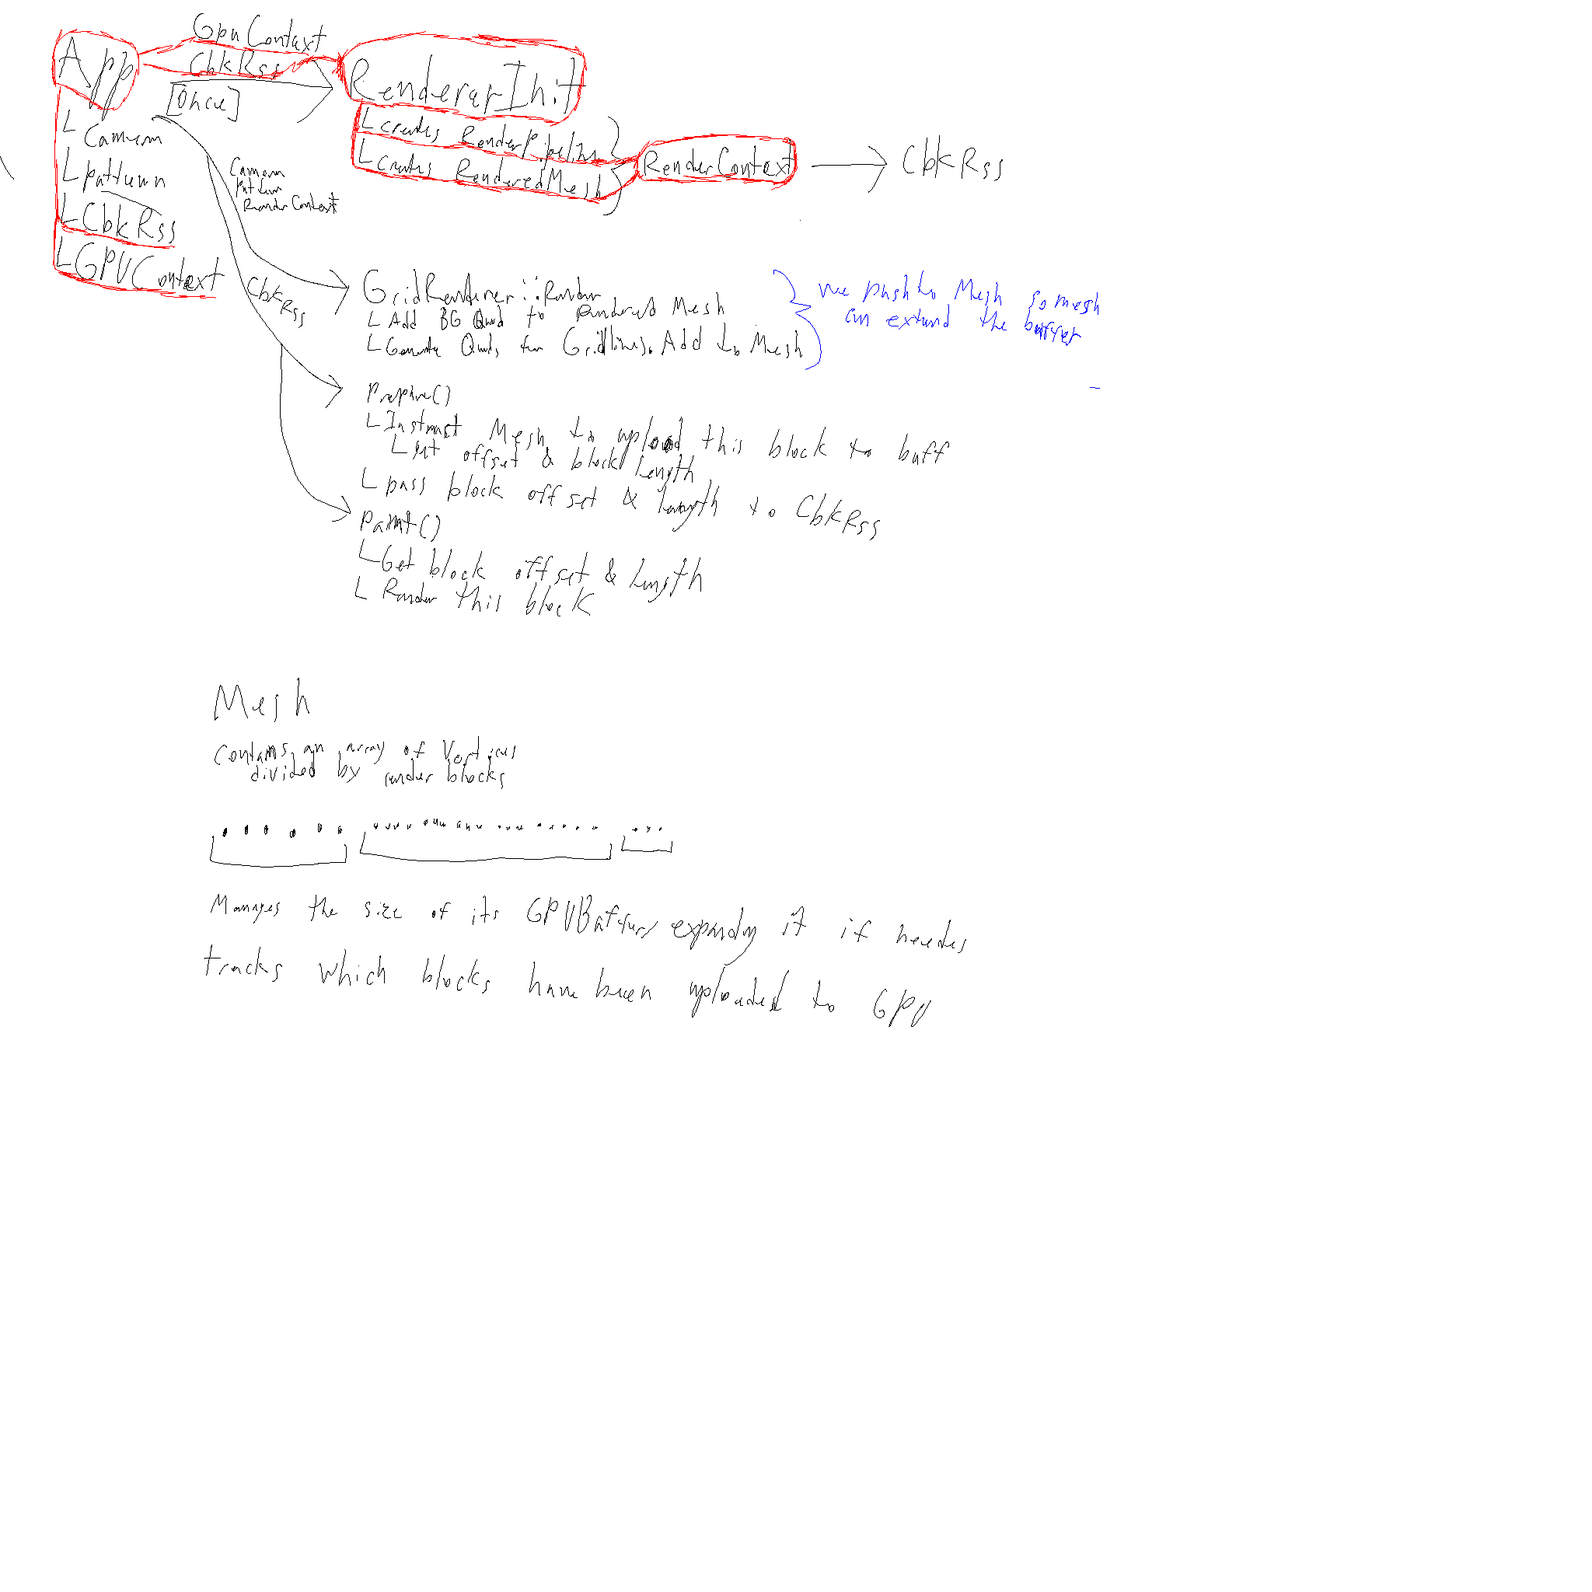
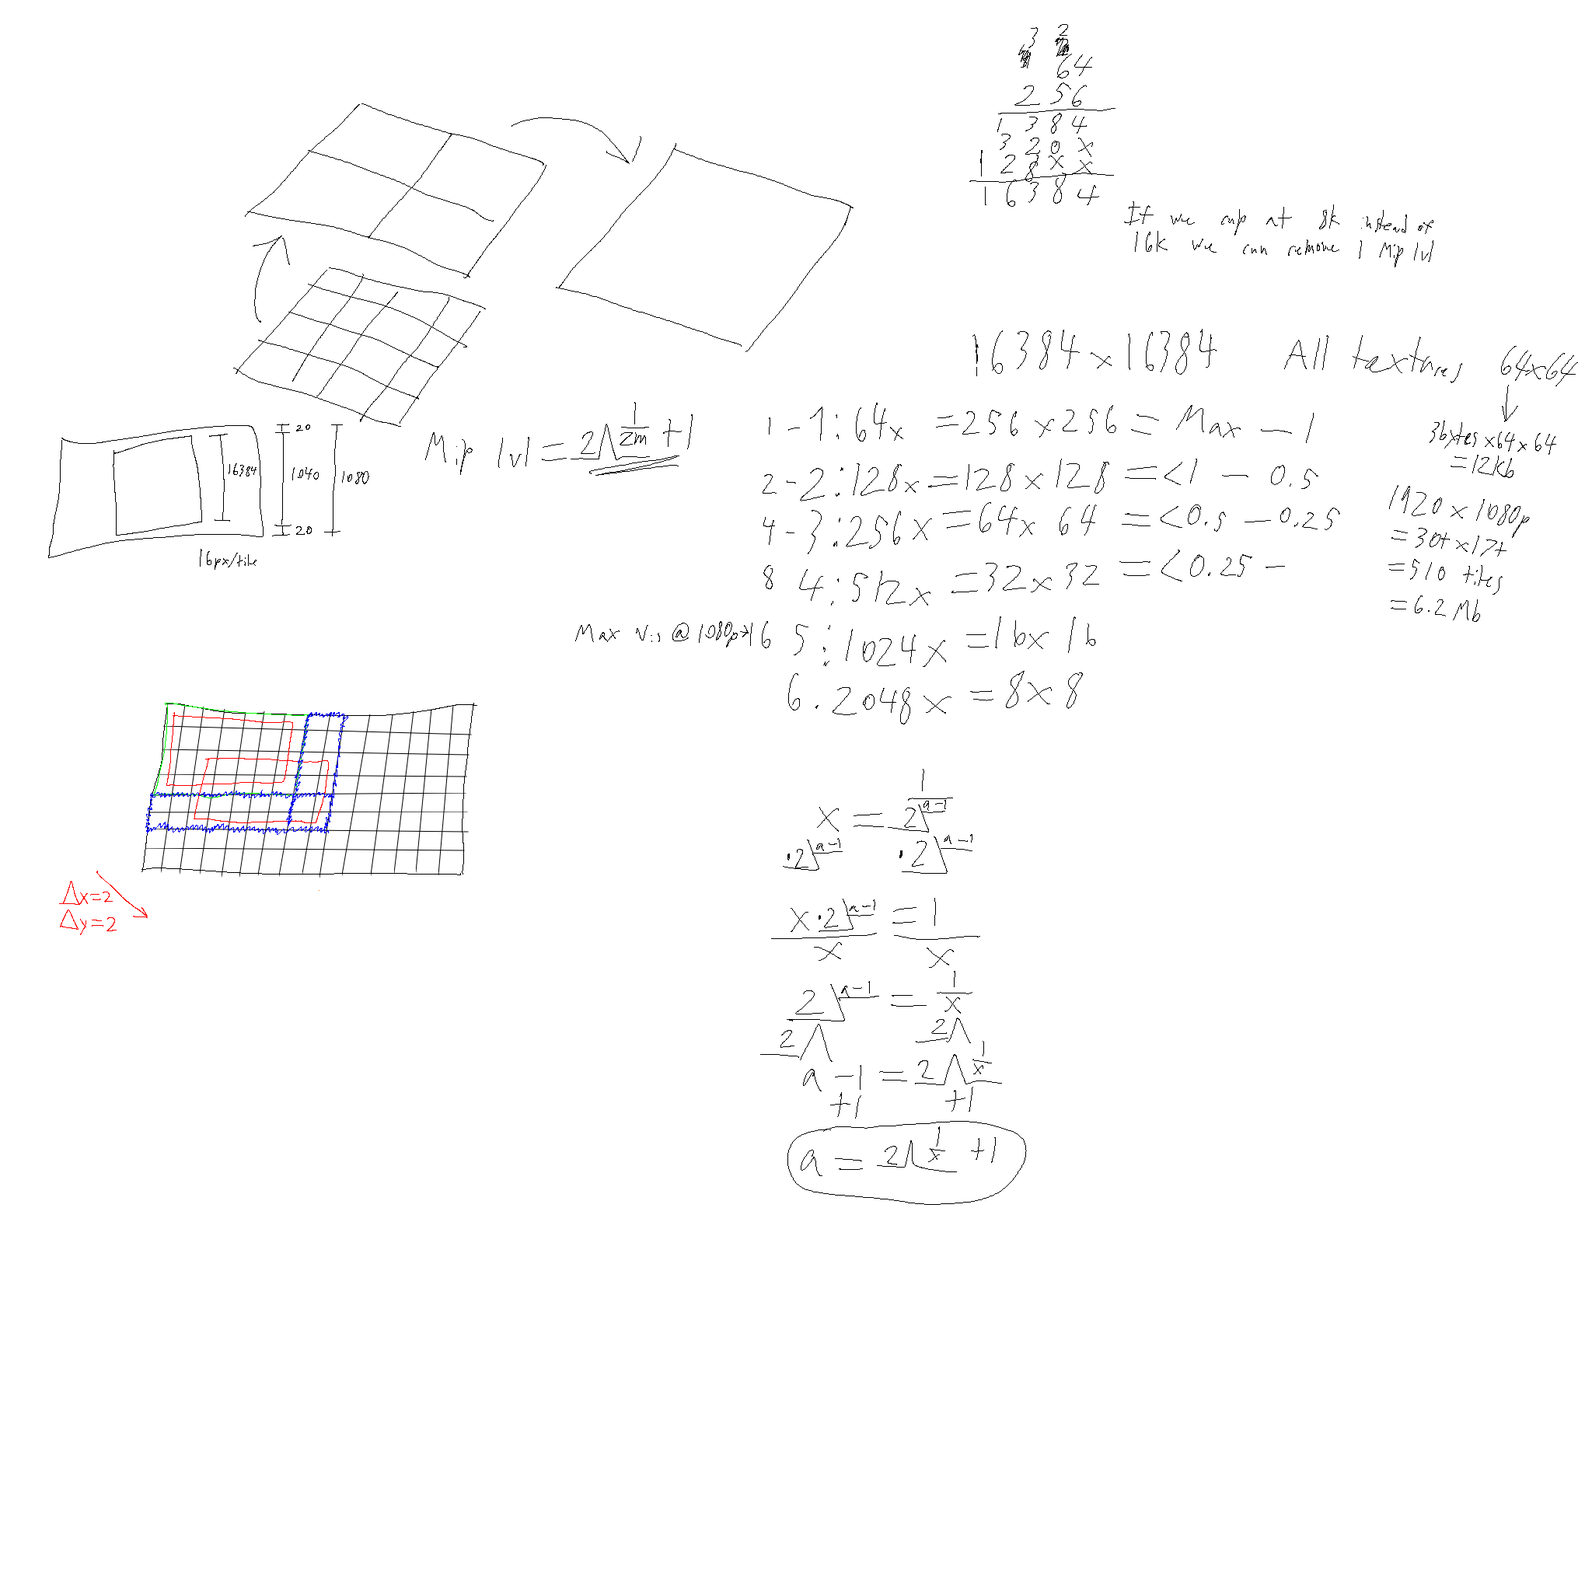
Add a Bounds struct

diff --git a/src/renderer/grid_renderer.rs b/src/renderer/grid_renderer.rs
@@ -6,26 +6,22 @@ use crate::{
     renderer::{
         RenderContext,
         geometry::{
-            Vertex,
-            Color,
-            Axis,
+            Axis, Color, Vertex
         },
     },
-    utils
+    utils,
 };
 use std::any::TypeId;
 
 /// A quad representing a line in a grid.
 struct Gridline {
-    /// This `Gridline`'s position along its `Axis`.
+    /// This gridline's world space position along its axis.
     position: f32,
-    /// Minimum world space position of the pattern's edge, so the `Gridline` doesn't overflow the pattern.
-    draw_min: f32,
-    /// Maximum world space position of the pattern's edge, so the `Gridline` doesn't overflow the pattern.
-    draw_max: f32,
-    /// Thickness of this `Gridline`.
+    /// Minimum and maximum world space positions of the gridline's endpoints to prevent overrunning the pattern.
+    endpoints: utils::Bounds<f32>,
+    /// Thickness of this gridline.
     weight: f32,
-    /// `Axis` long which this `Gridline` is placed, perpendicular to that which it points.
+    /// Axis long which this gridline is placed, perpendicular to that which it points.
     axis: Axis,
 }
 impl Gridline {
@@ -42,8 +38,10 @@ impl Gridline {
         match self.axis {
             Axis::X => {
                 let x_clip = ((self.position - camera.position.x) * camera.zoom) / (camera.viewport.x / 2.0);
-                let draw_min_clip = ((self.draw_min - camera.position.y) * camera.zoom) / (camera.viewport.y / 2.0);
-                let draw_max_clip = ((self.draw_max - camera.position.y) * camera.zoom) / (camera.viewport.y / 2.0);
+                let endpoints_clip = utils::Bounds {
+                    min: ((self.endpoints.min - camera.position.y) * camera.zoom) / (camera.viewport.y / 2.0),
+                    max: ((self.endpoints.max - camera.position.y) * camera.zoom) / (camera.viewport.y / 2.0),
+                };
                 let weight = self.weight / (camera.viewport.x / 2.0);
                 let corner_fix = (self.weight / 4.0) / (camera.viewport.x / 2.0);
                 let draw_color = Color::BLACK;
@@ -51,65 +49,67 @@ impl Gridline {
                 [
                     // Top right
                     Vertex {
-                        position: Vec2::new(x_clip - weight / 2.0, draw_max_clip + corner_fix),
+                        position: Vec2::new(x_clip - weight / 2.0, endpoints_clip.max + corner_fix),
                         color: draw_color,
                     },
                     Vertex {
-                        position: Vec2::new(x_clip + weight / 2.0, draw_max_clip + corner_fix),
+                        position: Vec2::new(x_clip + weight / 2.0, endpoints_clip.max + corner_fix),
                         color: draw_color,
                     },
                     Vertex {
-                        position: Vec2::new(x_clip + weight / 2.0, draw_min_clip - corner_fix),
+                        position: Vec2::new(x_clip + weight / 2.0, endpoints_clip.min - corner_fix),
                         color: draw_color,
                     },
                     //Bottom left
                     Vertex {
-                        position: Vec2::new(x_clip - weight / 2.0, draw_max_clip + corner_fix),
+                        position: Vec2::new(x_clip - weight / 2.0, endpoints_clip.max + corner_fix),
                         color: draw_color,
                     },
                     Vertex {
-                        position: Vec2::new(x_clip + weight / 2.0, draw_min_clip - corner_fix),
+                        position: Vec2::new(x_clip + weight / 2.0, endpoints_clip.min - corner_fix),
                         color: draw_color,
                     },
                     Vertex {
-                        position: Vec2::new(x_clip - weight / 2.0, draw_min_clip - corner_fix),
+                        position: Vec2::new(x_clip - weight / 2.0, endpoints_clip.min - corner_fix),
                         color: draw_color,
                     },
                 ]
             },
             Axis::Y => {
-                let y_clip = ((self.position - camera.position[1]) * camera.zoom) / (camera.viewport[1] / 2.0);
-                let draw_min_clip = ((self.draw_min - camera.position[0]) * camera.zoom) / (camera.viewport[0] / 2.0);
-                let draw_max_clip = ((self.draw_max - camera.position[0]) * camera.zoom) / (camera.viewport[0] / 2.0);
-                let weight = self.weight / (camera.viewport[1] / 2.0);
+                let y_clip = ((self.position - camera.position.y) * camera.zoom) / (camera.viewport.y / 2.0);
+                let endpoints_clip = utils::Bounds {
+                    min: ((self.endpoints.min - camera.position.x) * camera.zoom) / (camera.viewport.x / 2.0),
+                    max: ((self.endpoints.max - camera.position.x) * camera.zoom) / (camera.viewport.x / 2.0),
+                };
+                let weight = self.weight / (camera.viewport.y / 2.0);
                 let corner_fix = (self.weight / 4.0) / (camera.viewport.y / 2.0);
                 let draw_color = Color::BLACK;
 
                 [
                     // Top right
                     Vertex{
-                        position: Vec2::new(draw_min_clip - corner_fix, y_clip + weight / 2.0),
+                        position: Vec2::new(endpoints_clip.min - corner_fix, y_clip + weight / 2.0),
                         color: draw_color,
                     },
                     Vertex{
-                        position: Vec2::new(draw_max_clip + corner_fix, y_clip + weight / 2.0),
+                        position: Vec2::new(endpoints_clip.max + corner_fix, y_clip + weight / 2.0),
                         color: draw_color,
                     },
                     Vertex{
-                        position: Vec2::new(draw_max_clip + corner_fix, y_clip - weight / 2.0),
+                        position: Vec2::new(endpoints_clip.max + corner_fix, y_clip - weight / 2.0),
                         color: draw_color,
                     },
                     //Bottom left
                     Vertex{
-                        position: Vec2::new(draw_min_clip - corner_fix, y_clip + weight / 2.0),
+                        position: Vec2::new(endpoints_clip.min - corner_fix, y_clip + weight / 2.0),
                         color: draw_color,
                     },
                     Vertex{
-                        position: Vec2::new(draw_max_clip + corner_fix, y_clip - weight / 2.0),
+                        position: Vec2::new(endpoints_clip.max + corner_fix, y_clip - weight / 2.0),
                         color: draw_color,
                     },
                     Vertex{
-                        position: Vec2::new(draw_min_clip - corner_fix, y_clip - weight / 2.0),
+                        position: Vec2::new(endpoints_clip.min - corner_fix, y_clip - weight / 2.0),
                         color: draw_color,
                     },
                 ]
@@ -120,18 +120,12 @@ impl Gridline {
 
 /// An iterator which generates all `Gridline`s along an axis between two world space positions.
 struct GridlineIter {
-    /// Minimum gridline this iterator will draw.
-    working_min: f32,
-    /// Maximum gridline this iterator will draw.
-    working_max: f32,
-    /// `pll_pattern_min`: Min world space position of pattern's edge parallel to axis.
-    pll_pattern_min: f32,
-    /// `pll_pattern_max`: Max world space position of pattern's edge parallel to axis.
-    pll_pattern_max: f32,
-    /// `prp_pattern_min`: Min world space position of pattern's edge perpendicular to axis.
-    prp_pattern_min: f32,
-    /// `prp_pattern_max`: Max world space position of pattern's edge perpendicular to axis.
-    prp_pattern_max: f32,
+    /// Minimum gridline in world space to draw along axis.
+    min: f32,
+    /// Maximum gridline in world space to draw along axis.
+    max: f32,
+    /// 2D bounding box of pattern in world space. `x` is parallel to `axis`, `y` is perpendicular.
+    pattern_bb: utils::Bounds2d<f32>,
     /// How many world position units between each gridline.
     step: f32,
     /// World position of the next `Gridline` to generate.
@@ -146,33 +140,24 @@ impl GridlineIter {
     /// 
     /// # Parameters
     /// 
-    /// - `render_min`: Minimum world space gridline to draw.
-    /// - `render_max`: Maximum world space gridline to draw.
-    /// - `pll_pattern_min`: Min world space position of pattern's edge parallel to axis.
-    /// - `pll_pattern_max`: Max world space position of pattern's edge parallel to axis.
-    /// - `prp_pattern_min`: Min world space position of pattern's edge perpendicular to axis.
-    /// - `prp_pattern_max`: Max world space position of pattern's edge perpendicular to axis.
-    /// - `step`: How many world space units between each gridline.
+    /// - `min`: Minimum gridline in world space to draw along axis.
+    /// - `max`: Maximum gridline in world space to draw along axis.
     /// - `axis`: Axis alongw hich to distribute gridlines.
+    /// - `step`: How many world space units between each gridline.
+    /// - `pll_pattern_min`: 2D bounding box of pattern in world space. `x` is parallel to `axis`, `y` is perpendicular.
     fn new(
-        render_min: f32,
-        render_max: f32,
-        pll_pattern_min: f32,
-        pll_pattern_max: f32,
-        prp_pattern_min: f32,
-        prp_pattern_max: f32,
-        step: f32,
+        min: f32,
+        max: f32,
         axis: Axis,
+        step: f32,
+        pattern_bb: utils::Bounds2d<f32>,
     ) -> Self {
         Self {
-            working_min: utils::maxf(render_min, pll_pattern_min),
-            working_max: utils::minf(render_max, pll_pattern_max),
-            pll_pattern_min,
-            pll_pattern_max,
-            prp_pattern_min,
-            prp_pattern_max,
+            min: utils::maxf(min, pattern_bb.x.min),
+            max: utils::minf(max, pattern_bb.x.max),
             step,
-            next: utils::maxf(render_min, pll_pattern_min),
+            next: utils::maxf(min, pattern_bb.x.min),
+            pattern_bb,
             axis,
             done: false,
         }
@@ -185,27 +170,27 @@ impl Iterator for GridlineIter {
         if self.done {
             return None;
         }
-        if self.next == self.working_min {
+        // Align gridlines to step
+        if self.next == self.min {
             self.next -= self.next % self.step;
         }
         let position = self.next;
         self.next += self.step;
-        self.next = self.next.min(self.working_max);
+        self.next = self.next.min(self.max);
 
         let weight = match position {
-            p if p == self.pll_pattern_min || p == self.pll_pattern_max => 5.0,
+            p if p == self.pattern_bb.x.min || p == self.pattern_bb.x.min => 5.0,
             p if p % (100.0 * self.step) == 0.0 => 5.0,
             p if p % (10.0 * self.step) == 0.0 => 3.0,
             _ => 1.0,
         };
 
-        if position == self.working_max {
+        if position == self.max {
             self.done = true;
         }
         Some(Gridline {
             position,
-            draw_min: self.prp_pattern_min,
-            draw_max: self.prp_pattern_max,
+            endpoints: utils::Bounds { min: self.pattern_bb.y.min, max: self.pattern_bb.y.max },
             weight,
             axis: self.axis,
         })
@@ -241,24 +226,22 @@ pub fn render(render_context: &mut RenderContext, camera: &Camera, pattern: &Pat
 
     // Create iterators for gridlines currently in view.
     let x_grids = GridlineIter::new(
-        (camera.position[0] - (camera.viewport[0] / (2.0 * camera.zoom))).ceil(),
-        (camera.position[0] + (camera.viewport[0] / (2.0 * camera.zoom))).floor(),
-        0.0,
-        pattern.stitched_dimensions[0] as f32,
-        0.0,
-        pattern.stitched_dimensions[1] as f32,
-        grid_step,
-        Axis::X,
+        (camera.position[0] - (camera.viewport.x / (2.0 * camera.zoom))).ceil(),
+        (camera.position[0] + (camera.viewport.x / (2.0 * camera.zoom))).floor(),
+        Axis::X, grid_step,
+        utils::Bounds2d {
+            x: utils::Bounds { min: 0.0, max: pattern.stitched_dimensions.x },
+            y: utils::Bounds { min: 0.0, max: pattern.stitched_dimensions.y },
+        }
     );
     let y_grids = GridlineIter::new(
-        (camera.position[1] - (camera.viewport[1] / (2.0 * camera.zoom))).ceil(),
-        (camera.position[1] + (camera.viewport[1] / (2.0 * camera.zoom))).floor(),
-        0.0,
-        pattern.stitched_dimensions[1] as f32,
-        0.0,
-        pattern.stitched_dimensions[0] as f32,
-        grid_step,
-        Axis::Y,
+        (camera.position[1] - (camera.viewport.y / (2.0 * camera.zoom))).ceil(),
+        (camera.position[1] + (camera.viewport.y / (2.0 * camera.zoom))).floor(),
+        Axis::Y, grid_step,
+        utils::Bounds2d {
+            x: utils::Bounds { min: 0.0, max: pattern.stitched_dimensions.y },
+            y: utils::Bounds { min: 0.0, max: pattern.stitched_dimensions.x },
+        }
     );
 
     // Iterate over all gridlines in view.

diff --git a/src/camera.rs b/src/camera.rs
@@ -7,15 +7,10 @@ use glam::Vec2;
 pub struct Camera {
     /// Camera position in world space.
     pub position: Vec2,
-    // TODO Replace with some sort of structure accessed like `position_bounds.x.min`
-    /// The minimum and maximum camera position values so the user doesnt run away and lose the canvas.
-    pub position_bounds: [[f32; 2]; 2],
     /// Camera viewport dimensions in logical pixels.
     pub viewport: Vec2,
     /// How many logical pixels between each single world space unit.
     pub zoom: f32,
-    /// The minimum and maximum zoom values to prevent rendering artefacts or bugs.
-    pub zoom_bounds: [f32; 2],
 }
 
 impl Camera {
@@ -26,45 +21,56 @@ impl Camera {
     /// - `pattern`: The pattern that this camera is intended to render.
     ///     This is used to set the camera's initial position to the center of the pattern.
     pub fn new(pattern: &Pattern) -> Self{
-        let pattern_width = pattern.stitched_dimensions[0] as f32;
-        let pattern_height = pattern.stitched_dimensions[1] as f32;
+        let pattern_width = pattern.stitched_dimensions.x;
+        let pattern_height = pattern.stitched_dimensions.y;
         Self {
             position: Vec2::new(pattern_width / 2.0, pattern_height / 2.0),
-            position_bounds: [[0.0, 0.0], [0.0, 0.0]],
-            viewport: Vec2::new(0.0, 0.0),
+            viewport: Vec2::default(),
             zoom: 50.0,
-            zoom_bounds: [0.0, 0.0],
         }
     }
 
+    /// Calculate where the camera is allowed to be in space without losing the pattern.
+    /// If the camera's position is outside those bounds, clamp it.
+    /// 
+    /// # Parameters
+    /// 
+    /// - `pattern`: Pattern used to determine where the camera is allowed to pan.
     pub fn limit_pan(&mut self, pattern: &Pattern) {
         let margin = 50.0;
-        self.position_bounds = [
-            [
-                ((self.viewport.x - margin) / (-2.0 * self.zoom)) + 1.0,
-                (pattern.stitched_dimensions[0] as f32) + ((self.viewport.x - margin) / (2.0 * self.zoom)) - 1.0,
-            ],
-            [
-                ((self.viewport.y - margin) / (-2.0 * self.zoom)) + 1.0,
-                (pattern.stitched_dimensions[0] as f32) + ((self.viewport.y - margin) / (2.0 * self.zoom)) - 1.0,
-            ],
-        ];
+        let position_bounds = utils::Bounds2d {
+            x: utils::Bounds {
+                min: ((self.viewport.x - margin) / (-2.0 * self.zoom)) + 1.0,
+                max: (pattern.stitched_dimensions.x) + ((self.viewport.x - margin) / (2.0 * self.zoom)) - 1.0,
+            },
+            y: utils::Bounds {
+                min: ((self.viewport.y - margin) / (-2.0 * self.zoom)) + 1.0,
+                max: (pattern.stitched_dimensions.y) + ((self.viewport.y - margin) / (2.0 * self.zoom)) - 1.0,
+            },
+        };
 
-        self.position.x = self.position.x.clamp(self.position_bounds[0][0], self.position_bounds[0][1]);
-        self.position.y = self.position.y.clamp(self.position_bounds[1][0], self.position_bounds[1][1]);
+        self.position.x = self.position.x.clamp(position_bounds.x.min, position_bounds.x.max);
+        self.position.y = self.position.y.clamp(position_bounds.y.min, position_bounds.y.max);
     }
 
+    /// Calculate how far in/out the camera is allowed to zoom and clamp it to those values.
+    /// 
+    /// # Parameters
+    /// 
+    /// - `pattern`: `Pattern` used to determine how far the camera can zoom in or out based on its dimensions.
     pub fn limit_zoom(&mut self, pattern: &Pattern) {
         let margin = 50.0;
-        let min_zoom_x = (self.viewport.x - (margin * 2.0)) / pattern.stitched_dimensions[0] as f32;
-        let min_zoom_y = (self.viewport.y - (margin * 2.0)) / pattern.stitched_dimensions[1] as f32;
+        let min_zoom_x = (self.viewport.x - (margin * 2.0)) / pattern.stitched_dimensions.x;
+        let min_zoom_y = (self.viewport.y - (margin * 2.0)) / pattern.stitched_dimensions.y;
+        let zoom_bounds = utils::Bounds {
+            min: utils::minf(min_zoom_x, min_zoom_y),
+            max: utils::minf(self.viewport.x, self.viewport.y) - (margin * 2.0),
+        };
 
-        self.zoom_bounds[0] = utils::minf(min_zoom_x, min_zoom_y);
-        self.zoom_bounds[1] = utils::minf(self.viewport.x, self.viewport.y) - (margin * 2.0);
-
-        self.zoom = self.zoom.clamp(self.zoom_bounds[0], self.zoom_bounds[1]);
+        self.zoom = self.zoom.clamp(zoom_bounds.min, zoom_bounds.max);
     }
 
+    /// Resize the camera's viewport to the specified dimensions.
     pub fn resize(&mut self, width: f32, height: f32) {
         self.viewport.x = width;
         self.viewport.y = height;

diff --git a/src/main.rs b/src/main.rs
@@ -46,6 +46,7 @@ impl eframe::App for PatternSeer {
             // Create our rendering canvas filling all available space
             let (canvas_rect, canvas_response) = ui.allocate_exact_size(ui.available_size(), egui::Sense::drag());
             self.camera.resize(canvas_rect.width(), canvas_rect.height());
+            // self.camera.resize(426.0, 240.0);
 
             // Camera pan and zoom controls
             if canvas_response.dragged_by(egui::PointerButton::Secondary) {

diff --git a/src/utils.rs b/src/utils.rs
@@ -32,3 +32,17 @@ pub fn maxf<F: sealed::Float + PartialOrd>(a: F, b: F) -> F  {
     else if a > b { a } 
     else { b }
 }
+
+/// Object for storing a minimum and maximum value.
+#[derive(Default, Debug)]
+pub struct Bounds<T: PartialOrd> {
+    pub min: T,
+    pub max: T,
+}
+
+/// Object for storing a minimum and maximum position in 2D space.
+#[derive(Default, Debug)]
+pub struct Bounds2d<T: PartialOrd> {
+    pub x: Bounds<T>,
+    pub y: Bounds<T>,
+}
